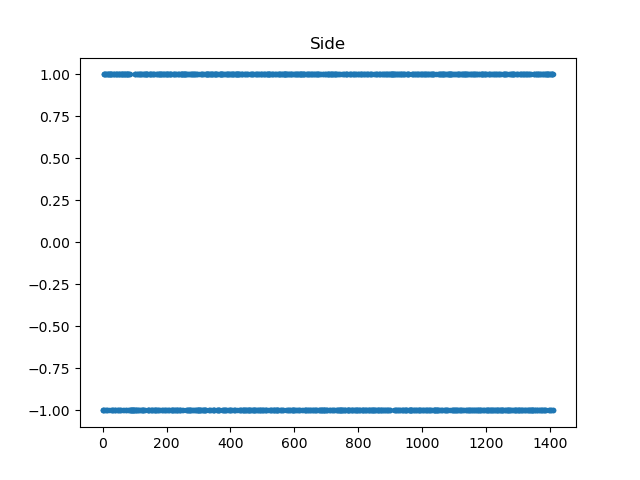
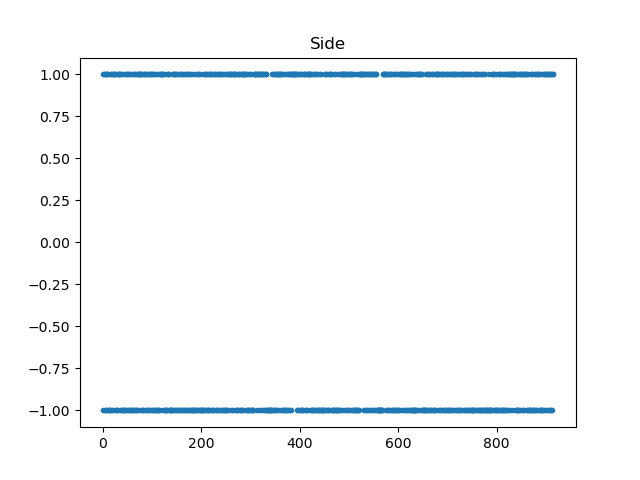
fixed reward function so initial benchmark isn't calculated until 3rd entry

diff --git a/market-sim/drl_top.py b/market-sim/drl_top.py
@@ -162,7 +162,7 @@ def getObservationsTrain(replay_buffer, temp_out_path, curr_arrivals, finalFunda
 
         else:
             curr_arrivals = curr_arrivals - 1
-    return replay_buffer, curr_arrivals, finalFundamentalEstimate, side, bidSize, askSize, bidVector, askVector, spread, transactionHistory, marketHoldings, privateBid, privateAsk, omegaRatioBid, omegaRatioAsk, timeTilEnd, cumulativeAlpha, cumulativePrice, cumulativeReward
+    return replay_buffer, curr_arrivals, finalFundamentalEstimate, side, bidSize, askSize, bidVector, askVector, spread, transactionHistory, marketHoldings, privateBid, privateAsk, omegaRatioBid, omegaRatioAsk, timeTilEnd, cumulativeAlpha, cumulativePrice, cumulativeReward, obs
 
 def getTestStats(stats, temp_out_path):
     #testing
@@ -173,7 +173,8 @@ def getTestStats(stats, temp_out_path):
         stats.append(s)
     return stats
 
-def updatePolicy(agent, replay_buffer, bsize, nb_states, nb_actions, update_steps):
+
+def updatePolicy(agent, replay_buffer, bsize, nb_states, nb_actions, update_steps, conf, obs, cumulativeReward, max_reward):
     mini_batch = random.choices(replay_buffer, k=bsize)
     state0_batch = np.empty((bsize,nb_states))
     state1_batch = np.empty((bsize,nb_states))
@@ -194,7 +195,17 @@ def updatePolicy(agent, replay_buffer, bsize, nb_states, nb_actions, update_step
     for j in range(update_steps):
         agent.update_policy(state0_batch, action_batch, reward_batch, state1_batch, term_batch)
 
-    #agent.save_model(model_folder)
+    print(len(cumulativeReward))
+    if len(cumulativeReward) > 0:
+        if max_reward < np.max(cumulativeReward):
+            max_reward = np.max(cumulativeReward)
+            print(f'Max reward: {max_reward}')
+            conf_f= open('run_scripts/max_config_path.json',"w")
+            json.dump(conf, conf_f, sort_keys=True)
+            conf_f.close()
+            obs_f= open('run_scripts/max_obs.json',"w")
+            json.dump(obs, obs_f, sort_keys=True)
+            obs_f.close()
 
     actor_weights = {}
     actor_weights['weightMtx1'] = to_numpy(agent.actor.fc1.weight).tolist()
@@ -204,7 +215,7 @@ def updatePolicy(agent, replay_buffer, bsize, nb_states, nb_actions, update_step
     actor_weights['weightMtx3'] = to_numpy(agent.actor.fc3.weight).tolist()
     actor_weights['biasMtx3'] = to_numpy(agent.actor.fc3.bias).tolist()
 
-    return agent, actor_weights
+    return agent, actor_weights, max_reward
 
 def plotDRLStats(agent,prate, rate, bsize, job_num, output_file):
     #actor loss
@@ -306,10 +317,10 @@ def main():
     print(len(replay_buffer))
     assert bsize <= len(replay_buffer), "Mini batch is bigger than replay buffer."
 
-    #if not os.path.exists(model_folder):
-    #    os.makedirs(model_folder)
-    #    with open(".gitignore", "a") as ignore_file:
-    #        ignore_file.write('\n/'+model_folder+'/*')
+    if not os.path.exists(model_folder):
+        os.makedirs(model_folder)
+        with open(".gitignore", "a") as ignore_file:
+            ignore_file.write('\n/'+model_folder+'/*')
 
     finalFundamentalEstimate = [] 
     side = []
@@ -329,11 +340,14 @@ def main():
     cumulativePrice = []
     cumulativeReward = []
 
+    max_reward = 0
+    obs = []
+
     training_steps = int(drl_args["trainingSteps"])
     for i in range(training_steps):
         print("Training step "+str(i))
         update_steps = int(drl_args["updateSteps"])
-        agent, actor_weights = updatePolicy(agent, replay_buffer, bsize, nb_states, nb_actions, update_steps)
+        agent, actor_weights, max_reward = updatePolicy(agent, replay_buffer, bsize, nb_states, nb_actions, update_steps, conf, obs, cumulativeReward, max_reward)
 
         if i < training_steps - 1:
             # get weights and bias for policy actions
@@ -343,7 +357,7 @@ def main():
             writeConfigFile(conf, role_info, nb_states, nb_actions, model_folder, config_path, actor_weights = actor_weights, policy_action = True, isTraining = True)
 
             launchMarketSimTrain(config_path, temp_out_path, True)
-            replay_buffer, curr_arrivals, finalFundamentalEstimate, side, bidSize, askSize, bidVector, askVector, spread,transactionHistory, marketHoldings, privateBid, privateAsk, omegaRatioBid, omegaRatioAsk, timeTilEnd, cumulativeAlpha, cumulativePrice, cumulativeReward = getObservationsTrain(replay_buffer, temp_out_path, curr_arrivals, finalFundamentalEstimate, side, bidSize, askSize, bidVector, askVector, spread,transactionHistory, marketHoldings, privateBid, privateAsk, omegaRatioBid, omegaRatioAsk, timeTilEnd, cumulativeAlpha, cumulativePrice, cumulativeReward)
+            replay_buffer, curr_arrivals, finalFundamentalEstimate, side, bidSize, askSize, bidVector, askVector, spread,transactionHistory, marketHoldings, privateBid, privateAsk, omegaRatioBid, omegaRatioAsk, timeTilEnd, cumulativeAlpha, cumulativePrice, cumulativeReward, obs = getObservationsTrain(replay_buffer, temp_out_path, curr_arrivals, finalFundamentalEstimate, side, bidSize, askSize, bidVector, askVector, spread,transactionHistory, marketHoldings, privateBid, privateAsk, omegaRatioBid, omegaRatioAsk, timeTilEnd, cumulativeAlpha, cumulativePrice, cumulativeReward)
 
             if curr_arrivals > rmsize:
                 begin_buffer = curr_arrivals - rmsize
@@ -356,7 +370,7 @@ def main():
     plt.close()
 
     plt.title("Final Fundamental Estimate - Trunkacted")
-    plt.plot(finalFundamentalEstimate[len(finalFundamentalEstimate)-11:len(finalFundamentalEstimate)-2],linestyle = 'None', marker = ".")
+    plt.plot(finalFundamentalEstimate[len(finalFundamentalEstimate)-51:len(finalFundamentalEstimate)-1],linestyle = 'None', marker = ".")
     plt.savefig(f'{output_file}_final_fundamental_trunk.png')
     plt.close()
 
@@ -366,7 +380,7 @@ def main():
     plt.close()
 
     plt.title("Side - Trunkacted")
-    plt.plot(side[len(side)-11:len(side)-2],linestyle = 'None', marker = ".")
+    plt.plot(side[len(side)-51:len(side)-1],linestyle = 'None', marker = ".")
     plt.savefig(f'{output_file}_side_trunk.png')
     plt.close()
 
@@ -376,7 +390,7 @@ def main():
     plt.close()
 
     plt.title("Bid Size - Trunkacted")
-    plt.plot(bidSize[len(bidSize)-11:len(bidSize)-2],linestyle = 'None', marker = ".")
+    plt.plot(bidSize[len(bidSize)-51:len(bidSize)-1],linestyle = 'None', marker = ".")
     plt.savefig(f'{output_file}_bid_size_trunk.png')
     plt.close()
 
@@ -386,7 +400,7 @@ def main():
     plt.close()
 
     plt.title("Ask Size - Trunkacted")
-    plt.plot(askSize[len(askSize)-11:len(askSize)-2],linestyle = 'None', marker = ".")
+    plt.plot(askSize[len(askSize)-51:len(askSize)-1],linestyle = 'None', marker = ".")
     plt.savefig(f'{output_file}_ask_size_trunk.png')
     plt.close()
 
@@ -406,7 +420,7 @@ def main():
     plt.close()
 
     plt.title("Spread - Trunkacted")
-    plt.plot(spread[len(spread)-11:len(spread)-2],linestyle = 'None', marker = ".")
+    plt.plot(spread[len(spread)-51:len(spread)-1],linestyle = 'None', marker = ".")
     plt.savefig(f'{output_file}_spread_trunk.png')
     plt.close()
 
@@ -451,7 +465,7 @@ def main():
     plt.close()
 
     plt.title("Action, Alpha - Trunkacted")
-    plt.plot(cumulativeAlpha[len(cumulativeAlpha)-11:len(cumulativeAlpha)-2],linestyle = 'None', marker = ".")
+    plt.plot(cumulativeAlpha[len(cumulativeAlpha)-51:len(cumulativeAlpha)-1],linestyle = 'None', marker = ".")
     plt.savefig(f'{output_file}_alpha_trunk.png')
     plt.close()
 
@@ -461,7 +475,7 @@ def main():
     plt.close()
 
     plt.title("Action, Price - Trunkacted")
-    plt.plot(cumulativePrice[len(cumulativePrice)-11:len(cumulativePrice)-2],linestyle = 'None', marker = ".")
+    plt.plot(cumulativePrice[len(cumulativePrice)-51:len(cumulativePrice)-1],linestyle = 'None', marker = ".")
     plt.savefig(f'{output_file}_price_trunk.png')
     plt.close()
 
@@ -471,9 +485,20 @@ def main():
     plt.close()
 
     plt.title("Reward - Trunkacted")
-    plt.plot(cumulativeReward[len(cumulativeReward)-11:len(cumulativeReward)-2],linestyle = 'None', marker = ".")
+    plt.plot(cumulativeReward[len(cumulativeReward)-51:len(cumulativeReward)-1],linestyle = 'None', marker = ".")
     plt.savefig(f'{output_file}_reward_trunk.png')
     plt.close()
+
+    plt.title("Reward - Trunkacted")
+    plt.plot(cumulativeReward[len(cumulativeReward)-101:len(cumulativeReward)-1],linestyle = 'None', marker = ".")
+    plt.savefig(f'{output_file}_reward_trunk100.png')
+    plt.close()
+
+    plt.title("Reward - Trunkacted")
+    plt.plot(cumulativeReward[len(cumulativeReward)-501:len(cumulativeReward)-1],linestyle = 'None', marker = ".")
+    plt.savefig(f'{output_file}_reward_trunk500.png')
+    plt.close()
+    print(f"trunkacted reward: {cumulativeReward[len(cumulativeReward)-101:len(cumulativeReward)-1]}")
 
     # testing
     stats = []

diff --git a/market-sim/src/main/java/edu/umich/srg/marketsim/agent/DeepRLAgent.java b/market-sim/src/main/java/edu/umich/srg/marketsim/agent/DeepRLAgent.java
@@ -187,7 +187,7 @@ public class DeepRLAgent implements Agent {
     JsonArray state = new JsonArray();
     JsonObject stateDict = new JsonObject();
     double currProfit = this.calculateReward(finalEstimate);
-    double startProfit = this.calculateReward(finalEstimate);
+    //double startProfit = this.calculateReward(finalEstimate);
     
     for (OrderType type : sides) {
       state = this.getNormState(finalEstimate,type.sign());
@@ -218,7 +218,7 @@ public class DeepRLAgent implements Agent {
 	  //state1 = this.getNormState(finalEstimate,type.sign());
     }
     
-    double endProfit = this.calculateReward(finalEstimate);
+    //double endProfit = this.calculateReward(finalEstimate);
     /*
     curr_obs.add("state0", state);
     curr_obs.add("action", this.action);
@@ -239,11 +239,21 @@ public class DeepRLAgent implements Agent {
     
     if (!firstArrival) {
         double reward = currProfit - this.prevProfit;
+        this.prev_obs.addProperty("current Profit", currProfit);
+        this.prev_obs.addProperty("previous Profit", this.prevProfit);
+        
+        if(Math.abs(reward) == getInitialReward() && currProfit == 0) {
+        	reward = 0;
+        }
+        else {
+        	this.prevProfit = currProfit;
+        }
+        
         this.runningPayoff += reward;
         this.prev_obs.addProperty("reward", reward);
         this.rl_observations.add(prev_obs);
-        this.prevProfit = currProfit;
-      } else {
+      } 
+      else {
     	firstArrival = false;
     	this.prevProfit = getInitialReward();
       }
@@ -286,14 +296,23 @@ public class DeepRLAgent implements Agent {
   }
   
   protected double calculateReward(double finalEstimate) {
+	  //System.out.println(55555);
 	  double estProfit = market.getProfit();
 	  int market_h = market.getHoldings();
 	  
+	  //System.out.println(estProfit);
+	  //System.out.println(market_h);
+	  
 	  estProfit += market_h * finalEstimate;
+	  
+	  //System.out.println(estProfit);
+	  
 	  OrderType direction = market_h > 0 ? BUY : SELL;
 	  for (int pos = 0; pos != market_h; pos += direction.sign()) {
 		  estProfit += this.payoffForExchange(pos, direction);
 	  }
+	  
+	  //System.out.println(estProfit);
 	  
 	  return estProfit;
 	  

diff --git a/market-sim/src/main/java/edu/umich/srg/marketsim/agent/RLBenchmarkAgent.java b/market-sim/src/main/java/edu/umich/srg/marketsim/agent/RLBenchmarkAgent.java
@@ -65,7 +65,13 @@ public class RLBenchmarkAgent extends DeepRLAgent {
   @Override
   protected double calculateReward(double finalEstimate) {
 	  double currProfit = super.calculateReward(finalEstimate);
+	  //System.out.println(currProfit);
+	  
 	  double currBenchmark = market.getCurrentBenchmark();
+	  
+	  //System.out.println(currBenchmark);
+	  //System.out.println(currProfit + (currBenchmark * this.benchmarkDir * this.contractHoldings));
+	  
 	  return currProfit + (currBenchmark * this.benchmarkDir * this.contractHoldings);
 	  //return currProfit + (currBenchmark * this.benchmarkDir);
 	  
